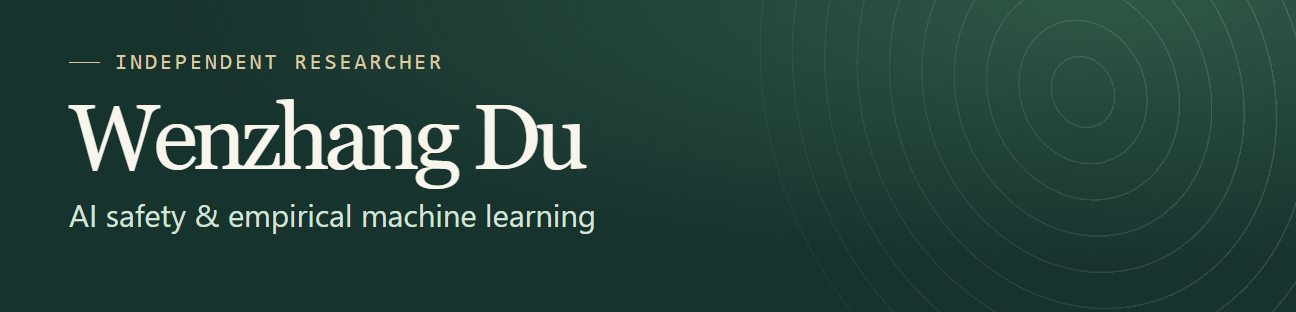
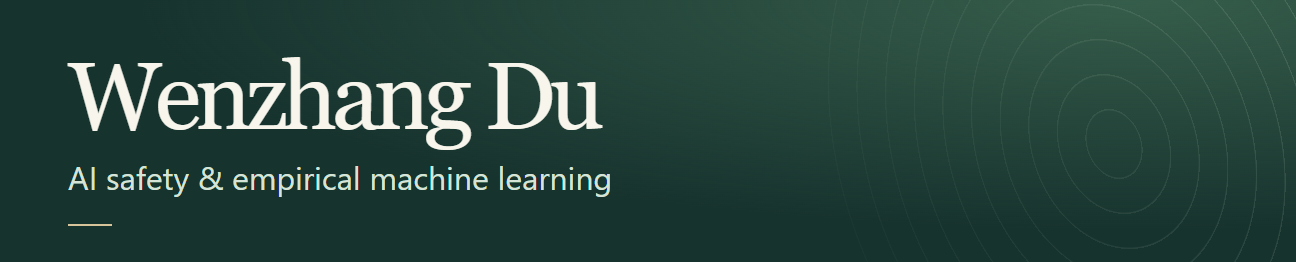
Focus profile on open-source papers and academic links

Changed region(s): [[0.0309, 0.1527, 0.463, 0.6107], [0.0309, 0.6412, 0.4938, 0.7634], [0.0617, 0.855, 0.0926, 0.8855]]

diff --git a/assets/research-cover.html b/assets/research-cover.html
@@ -10,42 +10,39 @@
       position: relative;
       isolation: isolate;
       width: 1296px;
-      height: 312px;
+      height: 262px;
       overflow: hidden;
-      padding: 49px 69px;
-      background: radial-gradient(ellipse at 87% 0%, #305745, transparent 60%), #17332e;
+      padding: 47px 68px;
+      background: radial-gradient(ellipse at 87% 0%, #365d4b, transparent 62%), #17332e;
     }
     main::before {
       content: '';
       position: absolute;
       z-index: -1;
-      top: -278px;
-      right: -157px;
-      width: 740px;
-      height: 740px;
-      transform: rotate(-23deg) scaleX(.85);
+      top: -245px;
+      right: -207px;
+      width: 778px;
+      height: 778px;
+      transform: rotate(-21deg) scaleX(.76);
       border-radius: 50%;
-      background: repeating-radial-gradient(circle, transparent 0 35px, #b8cbb83a 36px 37px);
-      mask-image: linear-gradient(to left, #000, #0004);
+      background: repeating-radial-gradient(circle, transparent 0 34px, #b8cbb82e 35px 36px);
+      mask-image: linear-gradient(to left, #000, #0002);
     }
-    .identity {
-      display: flex;
-      align-items: center;
-      gap: 15px;
-      margin: 0;
-      color: #ddc9a0;
-      font: 22px Consolas, monospace;
-      letter-spacing: .13em;
-      text-transform: uppercase;
+    main::after {
+      content: '';
+      position: absolute;
+      left: 68px;
+      bottom: 36px;
+      width: 44px;
+      height: 2px;
+      background: #d8c49a;
     }
-    .identity::before { content: ''; width: 31px; height: 1px; background: currentColor; }
-    h1 { margin: 15px 0 6px; font: 400 92px/1.04 Georgia, serif; letter-spacing: -.06em; }
-    .role { margin: 0; color: #d6e4d8; font: 31px/1.5 'Segoe UI', sans-serif; }
+    h1 { margin: 0 0 9px; font: 400 95px/1.04 Georgia, serif; letter-spacing: -.06em; }
+    .role { margin: 0; color: #d6e4d8; font: 32px/1.4 'Segoe UI', sans-serif; }
   </style>
 </head>
 <body>
   <main>
-    <p class="identity">Independent researcher</p>
     <h1>Wenzhang Du</h1>
     <p class="role">AI safety &amp; empirical machine learning</p>
   </main>

diff --git a/README.md b/README.md
@@ -1,21 +1,13 @@
-![Wenzhang Du · Independent researcher in AI safety and empirical machine learning](assets/research-cover.png)
+![Wenzhang Du · AI safety and empirical machine learning](assets/research-cover.png)
 
-I study LLM safety, trustworthy AI, and how to evaluate model and agent behavior with reproducible experiments.
+[Personal website](https://dqswordman.github.io/) · [中文主页](https://dqswordman.github.io/zh/) · [Google Scholar](https://scholar.google.com/citations?user=8nLydvUAAAAJ&hl=en)
 
-[Homepage](https://dqswordman.github.io/) · [中文主页](https://dqswordman.github.io/zh/) · [Publications](https://dqswordman.github.io/#publications) · [Technical reports](https://dqswordman.github.io/#technical-reports) · [Google Scholar](https://scholar.google.com/citations?user=8nLydvUAAAAJ&hl=en)
-
-## Research and open source
+## Open-source papers
 
 ### Complex Utility, Simple Calibration
 
-**WSDM 2027 Findings** · Decision sufficiency in RAG evidence selection
+Decision Sufficiency in RAG Evidence Selection · **WSDM 2027 Findings**
 
-A study of how far a small number of utility measurements can take evidence selection in multi-hop question answering. The artifact includes the decision policies, archived scores, and CPU replay.
+Evidence selection in multi-hop question answering, with archived scores and a CPU replay.
 
-[Technical report](https://dqswordman.github.io/technical-reports/decision-sufficiency/) · [中文技术报告](https://dqswordman.github.io/zh/technical-reports/decision-sufficiency/) · [GitHub repository](https://github.com/dqswordman/rag-decision-sufficiency) · [Reproduction release v1.0.0](https://github.com/dqswordman/rag-decision-sufficiency/releases/tag/v1.0.0)
-
-### OSAG EO Governance
-
-Reproduction scripts for Earth observation experiments and an offline dispatch demo built around Observed Service Agreement Graphs.
-
-[GitHub repository](https://github.com/dqswordman/osag-eo-governance) · [More open-source projects](https://dqswordman.github.io/#open-source)
+[Technical report](https://dqswordman.github.io/technical-reports/decision-sufficiency/) · [中文技术报告](https://dqswordman.github.io/zh/technical-reports/decision-sufficiency/) · [Code](https://github.com/dqswordman/rag-decision-sufficiency) · [Release v1.0.0](https://github.com/dqswordman/rag-decision-sufficiency/releases/tag/v1.0.0)
